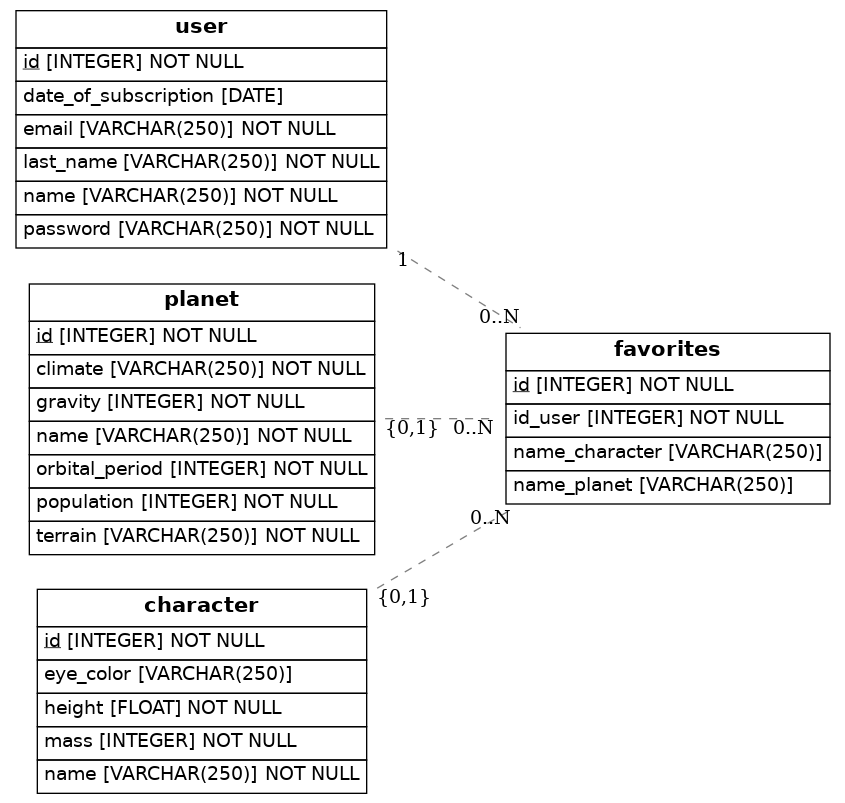
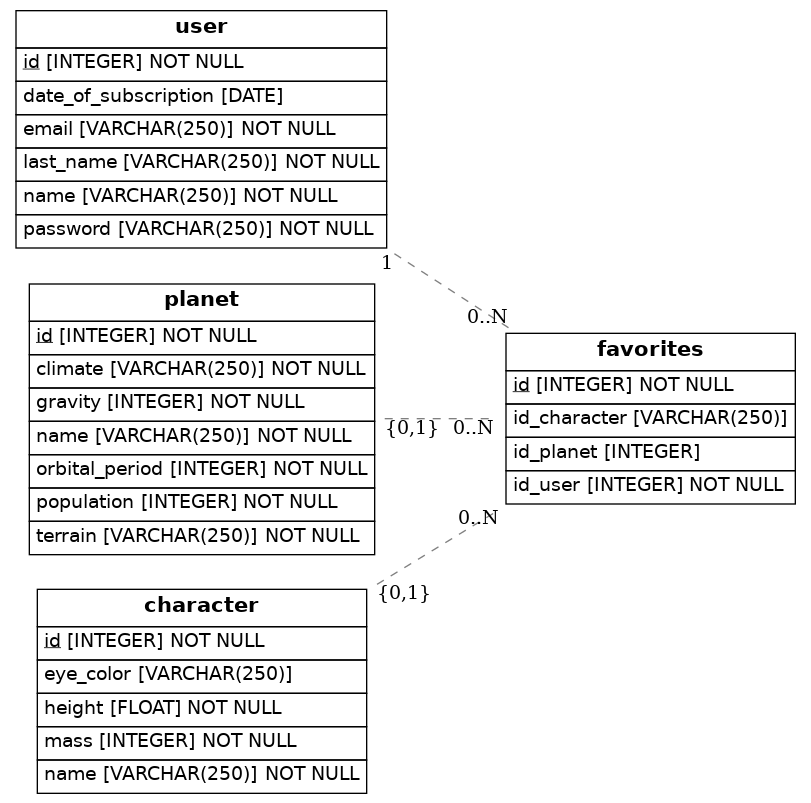
Correccion de foraneas de nombres a id

Changed region(s): [[0.0308, 0.3425, 0.9864, 0.6849], [0.0, 0.0, 0.4932, 0.3425], [0.0308, 0.6849, 0.524, 0.9963]]

diff --git a/src/models.py b/src/models.py
@@ -30,7 +30,7 @@ class Planet(Base):
 class Character(Base):
     __tablename__ = 'character'
     id = Column(Integer, primary_key=True)
-    name = Column(String(250), nullable=False)4
+    name = Column(String(250), nullable=False)
     height = Column(Float, nullable=False)
     eye_color = Column(String(250))
     mass = Column(Integer, nullable=False)
@@ -39,9 +39,9 @@ class Character(Base):
 class Favorites(Base):
     __tablename__ = 'favorites'
     id = Column(Integer, primary_key=True)
-    name_planet = Column(String(250), ForeignKey(Planet.name), nullable=True)
+    id_planet = Column(Integer, ForeignKey(Planet.id), nullable=True)
     id_user = Column(Integer, ForeignKey(User.id), nullable=False)
-    name_character = Column(String(250), ForeignKey(Character.name), nullable=True)
+    id_character = Column(String(250), ForeignKey(Character.id), nullable=True)
 
     def to_dict(self):
         return {}
